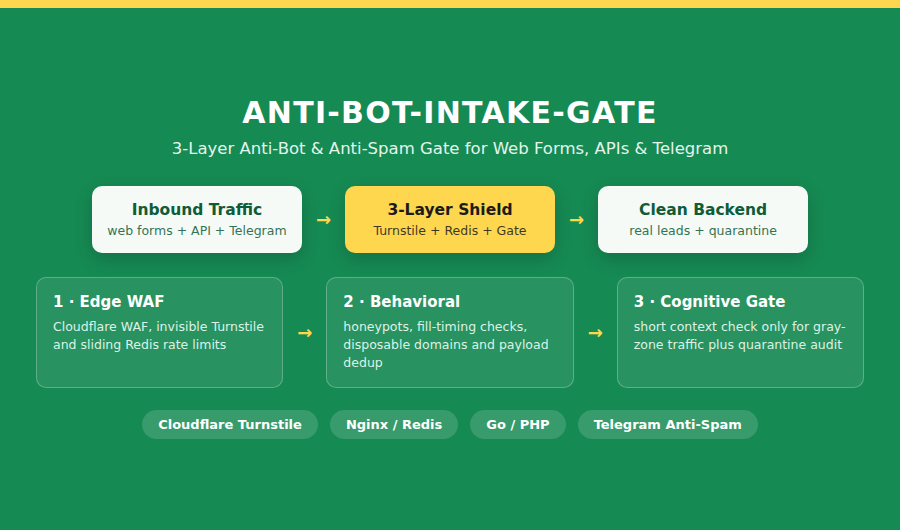
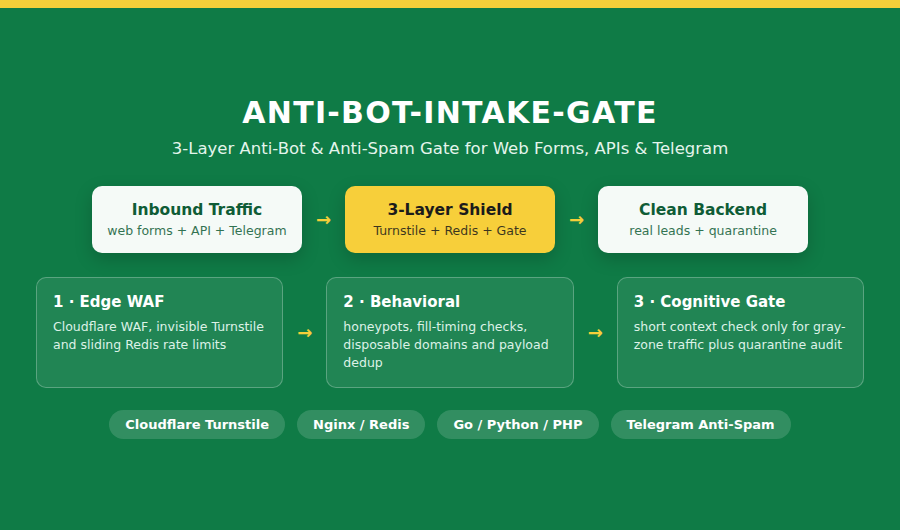
revert(portfolio): restore original texts, numbers, stacks, period and heroes of the 8 showcases
My earlier edits applied invented rules (dropped numbers, Python, 'ongoing', recoloured heroes).
Kept only the yml stack fix for n8n-llm-orchestrator (Nginx + SSL, as on its pages).

Changed region(s): [[0.1244, 0.7547, 0.9022, 0.8453]]

diff --git a/portfolio/fh-bid-filter-ua.md b/portfolio/fh-bid-filter-ua.md
@@ -9,15 +9,15 @@ lang_alt: /portfolio/fh-bid-filter/
 
 ## Огляд
 
-Активні замовники, вебстудії та тімліди на Freelancehunt часто отримують десятки ставок за першу годину після публікації проєкту — і чимало з них це шаблонні відписки або AI-простирадла, автори яких навіть не читали ТЗ. Ручний перебір забирає години часу. **fh-bid-filter** — безпечний інструмент скринінгу ставок для замовників Freelancehunt у режимі Human-in-the-Loop: детерміновано вирізає «воду», звіряє кожну ставку з вашим ТЗ, підсвічує ризики ціни/термінів, генерує одне точне перевірочне питання та перетворює 100 ставок на компактну **Decision Matrix із Топ-5 кандидатів**.
+Активні замовники, вебстудії та тімліди на Freelancehunt регулярно отримують по 60–120 ставок за першу годину після публікації проєкту — і до 80% із них це шаблонні відписки або AI-простирадла, автори яких навіть не читали ТЗ. Ручний перебір забирає години часу. **fh-bid-filter** — безпечний інструмент скринінгу ставок для замовників Freelancehunt у режимі Human-in-the-Loop: детерміновано вирізає «воду», звіряє кожну ставку з вашим ТЗ, підсвічує ризики ціни/термінів, генерує одне точне перевірочне питання та перетворює 100 ставок на компактну **Decision Matrix із Топ-5 кандидатів**.
 
-**Результат: замовник переглядає структуровану таблицю з 5 найкращих виконавців замість читання десятків однакових есе — без жодних авторозсилок, які могли б поставити під ризик акаунт на біржі.**
+**Результат: замовник за 3 хвилини переглядає структуровану таблицю з 5 найкращих виконавців замість читання 100 однакових есе — без жодних авторозсилок, які могли б поставити під ризик акаунт на біржі.**
 
 ---
 
 ## Справжня складна задача
 
-Наївні «AI-детектори» часто бракують сильних інженерів за лаконічний стиль, а агресивні скрипти авторозсилки в чатах біржі загрожують обмеженням акаунта самого замовника. Інженерна задача — суттєво прискорити відбір **без ризику для акаунта**: виключно read-only аналіз уже відкритих у браузері ставок, детермінована очистка шаблонів до виклику LLM і ручна відправка в 1 клік лише 3–5 фіналістам.
+Наївні «AI-детектори» часто бракують сильних інженерів за лаконічний стиль, а агресивні скрипти авторозсилки в чатах біржі загрожують обмеженням акаунта самого замовника. Інженерна задача — дати 10-кратне прискорення відбору при **нульовому ризику для акаунта**: виключно read-only аналіз уже відкритих у браузері ставок, детермінована очистка шаблонів до виклику LLM і ручна відправка в 1 клік лише 3–5 фіналістам.
 
 ---
 
@@ -34,8 +34,8 @@ lang_alt: /portfolio/fh-bid-filter/
 
 | Рішення | Чому |
 |---|---|
-| Суворо read-only, нуль авторозсилок | Захищає акаунт замовника на Freelancehunt — повідомлення 3–5 фіналістам завжди надсилає сама людина. |
-| Детермінований префільтр до скорингу LLM | Миттєво відсікає порожні шаблонні ставки без витрати токенів на «готовий виконати якісно й швидко». |
+| Суворо read-only, нуль авторозсилок | На 100% захищає акаунт замовника на Freelancehunt — повідомлення 3–5 фіналістам завжди надсилає сама людина. |
+| Детермінований префільтр до скорингу LLM | Миттєво відсікає 60–70% порожніх шаблонних ставок без витрати токенів на «готовий виконати якісно й швидко». |
 | Таблиця Decision Matrix замість переказу текстів | Зводить ціну, терміни, релевантність портфоліо, попадання в ТЗ і ризики на один екран. |
 | Детектор відповіді на canary-питання з ТЗ | Одразу підсвічує, хто реально прочитав опис проєкту, а хто надіслав ставку всліпу. |
 
@@ -59,4 +59,4 @@ lang_alt: /portfolio/fh-bid-filter/
 
 ## Стек
 
-`TypeScript / Chrome Extension` · `Go` · `OpenAI / Claude / OpenRouter Structured Outputs` · `Deterministic Fluff-Stripping` · `Decision Matrix UI` · `CSV / Notion / Telegram Export`
+`TypeScript / Chrome Extension` · `Go / Python` · `OpenAI / Claude / OpenRouter Structured Outputs` · `Deterministic Fluff-Stripping` · `Decision Matrix UI` · `CSV / Notion / Telegram Export`

diff --git a/portfolio/n8n-llm-orchestrator-ua.md b/portfolio/n8n-llm-orchestrator-ua.md
@@ -11,7 +11,7 @@ lang_alt: /portfolio/n8n-llm-orchestrator/
 
 Більшість прототипів на n8n чи Make.com працюють на десяти тестових записах і ламаються в перший же тиждень реального навантаження: сплеск вебхуків підвішує один процес, таймаут LLM мовчки губить оплаченого ліда, а неконтрольований цикл ретраїв за ніч спалює баланс API. Продакшн-хаб оркестрації на self-hosted n8n + LLM розгортається в Docker Queue Mode з PostgreSQL і Redis — стабільно приймає вебхуки, пропускає дані через типізовані LLM-кроки з лімітами витрат, синхронізує CRM, пошту, Google Sheets і Telegram та миттєво сповіщає про будь-який збій зовнішнього API.
 
-**Результат: швидкість візуальних воркфлоу в поєднанні з інженерною надійністю бекенду — кожен збій ліда перехоплено й можна перезапустити, прогнозовані витрати на токени та повний контроль на власному VPS без SaaS-націнок за кожну операцію.**
+**Результат: швидкість візуальних воркфлоу в поєднанні з інженерною надійністю бекенду — жодного загубленого ліда, прогнозовані витрати на токени та повний контроль на власному VPS без SaaS-націнок за кожну операцію.**
 
 ---
 
@@ -34,7 +34,7 @@ lang_alt: /portfolio/n8n-llm-orchestrator/
 
 | Рішення | Чому |
 |---|---|
-| Self-hosted Docker + Queue Mode (Redis + PostgreSQL) | Відокремлює прийом вебхуків від повільних LLM-запитів, усуває блокування SQLite і прибирає оплату SaaS-автоматизації за кожну операцію. |
+| Self-hosted Docker + Queue Mode (Redis + PostgreSQL) | Відокремлює прийом вебхуків від повільних LLM-запитів, усуває блокування SQLite і зменшує щомісячні витрати на SaaS-автоматизацію у 5–10 разів. |
 | Ключі ідемпотентності перед кожним записом | Зовнішні CRM і месенджери повторюють вебхуки при таймаутах; перевірка ключа повністю виключає дублікати угод, рахунків і повідомлень. |
 | Суворий JSON Schema + ліміти токенів у LLM-вузлах | Не дає «поламаній» відповіді моделі зіпсувати поля в CRM/таблицях і захищає API-баланс від нескінченних циклів. |
 | Окремий Error Workflow + автобекап у Git | Тихі збої вбивають довіру до автоматизації; кожна помилка одразу видима в Telegram, а версії воркфлоу зберігаються в репозиторії. |
@@ -52,11 +52,11 @@ lang_alt: /portfolio/n8n-llm-orchestrator/
 
 ## Межі
 
-- Масовий парсинг за агресивним антиботом або потокова обробка в реальному часі (менше 1 секунди) виносяться в окремий мікросервіс на Go, який викликається з n8n, а не будуються циклами у візуальному редакторі.
+- Масовий парсинг за агресивним антиботом або потокова обробка в реальному часі (менше 1 секунди) виносяться в окремий мікросервіс на Go/Python, який викликається з n8n, а не будуються циклами у візуальному редакторі.
 - Для розгортання потрібен Linux VPS (зазвичай 2–4 vCPU, 4–8 ГБ RAM) та API-ключі цільових сервісів і LLM-провайдерів.
 
 ---
 
 ## Стек
 
-`n8n (Queue Mode)` · `Docker Compose` · `PostgreSQL` · `Redis` · `Nginx + SSL` · `OpenRouter / OpenAI / Claude API` · `Go` · `CRM & Telegram Webhooks` · `Google Sheets / Drive API`
+`n8n (Queue Mode)` · `Docker Compose` · `PostgreSQL` · `Redis` · `Nginx + SSL` · `OpenRouter / OpenAI / Claude API` · `Go / Python` · `CRM & Telegram Webhooks` · `Google Sheets / Drive API`

diff --git a/portfolio/llm-gateway-agents-ua.md b/portfolio/llm-gateway-agents-ua.md
@@ -11,7 +11,7 @@ lang_alt: /portfolio/llm-gateway-agents/
 
 Команди та підприємці, які будують робочі процеси на AI-агентах, регулярно впираються в обмеження одного провайдера: хибні відмови цензури на легітимних бізнес-задачах, жорсткі ліміти запитів, зростання чеків за токени або вимоги приватності. Мультимодельний AI-шлюз і незалежне агентне середовище відвʼязують ваших агентів від одного вендора (Claude чи OpenAI) — маршрутизують запити між OpenRouter, DeepSeek, Grok, Qwen, Mistral або локальними Ollama/vLLM залежно від задачі, ціни, швидкості та політики відповідей, з автоматичними фолбеками й жорсткими лімітами бюджету.
 
-**Результат: агенти не зупиняються через відмови чи ліміти одного провайдера, витрати на токени знижуються завдяки маршрутизації за рівнями складності, а ви повністю контролюєте моделі, промпти й ключі.**
+**Результат: агенти не зупиняються через відмови чи ліміти одного провайдера, витрати на токени падають на 40–70% завдяки маршрутизації за рівнями складності, а ви повністю контролюєте моделі, промпти й ключі.**
 
 ---
 
@@ -35,7 +35,7 @@ lang_alt: /portfolio/llm-gateway-agents/
 | Рішення | Чому |
 |---|---|
 | Єдиний OpenAI-сумісний шлюз перед усіма агентами | Дозволяє змінювати або A/B-тестувати DeepSeek, Grok, Qwen, Mistral, Claude чи локальний Ollama в одному конфігу без переписування коду агентів. |
-| Багаторівнева маршрутизація (рутина vs складний аналіз) | Зменшує щомісячний чек на LLM без втрати якості на критичних кроках планування й виклику інструментів. |
+| Багаторівнева маршрутизація (рутина vs складний аналіз) | Зменшує щомісячний чек на LLM на 40–70% без втрати якості на критичних кроках планування й виклику інструментів. |
 | Віртуальні ключі з жорсткими лімітами витрат | Захищає основний баланс провайдера, якщо агент потрапить у цикл повторів уночі. |
 | Перевірені профілі промптів і схем під кожну модель | Усуває зламаний JSON у tool calling при переході з пропрієтарних моделей на open-weight або більш лояльні системи. |
 
@@ -44,7 +44,7 @@ lang_alt: /portfolio/llm-gateway-agents/
 ## Що ви отримуєте
 
 - Налаштований мультимодельний LLM-шлюз (OpenRouter / LiteLLM / Go-проксі) із ланцюжками фолбеку та віртуальними ключами з лімітами
-- Готову конфігурацію агентного середовища (OpenCode, Cline, Roo Code або власний Go API-клієнт) під альтернативні та open-weight моделі
+- Готову конфігурацію агентного середовища (OpenCode, Cline, Roo Code або власний Python/Go API-клієнт) під альтернативні та open-weight моделі
 - За потреби — розгортання локальних моделей (Ollama / vLLM на вашому GPU-сервері чи RunPod)
 - Письмовий плейбук із результатами тестів на ваших реальних задачах, калькулятором вартості та інструкцією ротації ключів
 
@@ -59,4 +59,4 @@ lang_alt: /portfolio/llm-gateway-agents/
 
 ## Стек
 
-`OpenRouter` · `LiteLLM` · `Go` · `DeepSeek / Grok / Qwen / Mistral` · `Ollama / vLLM` · `OpenCode / Cline / Roo Code` · `Docker` · `Redis` · `PostgreSQL`
+`OpenRouter` · `LiteLLM` · `Go / Python` · `DeepSeek / Grok / Qwen / Mistral` · `Ollama / vLLM` · `OpenCode / Cline / Roo Code` · `Docker` · `Redis` · `PostgreSQL`

diff --git a/portfolio/fh-bid-filter.md b/portfolio/fh-bid-filter.md
@@ -7,15 +7,15 @@ image: /portfolio/assets/images/fh-bid-filter/hero-0900x0530.png
 
 ## Overview
 
-Active employers, web studios and agency leads posting projects on Freelancehunt often receive dozens of bids within the first hour — many of them generic templates or AI-generated walls of text that never addressed the actual brief. Reading every bid burns hours of a founder's or PM's time. **fh-bid-filter** is a safe, human-in-the-loop screening tool built specifically for Freelancehunt employers: it strips boilerplate fluff deterministically, scores every bid against your project brief, flags unrealistic pricing or missing answers to your screening questions, generates one surgical verification question to copy-paste, and turns 100 bids into a compact **Top-5 Decision Matrix**.
+Active employers, web studios and agency leads posting projects on Freelancehunt routinely receive 60–120 bids within the first hour — 80% of which are generic templates or AI-generated walls of text that never addressed the actual brief. Reading every bid burns hours of a founder's or PM's time. **fh-bid-filter** is a safe, human-in-the-loop screening tool built specifically for Freelancehunt employers: it strips boilerplate fluff deterministically, scores every bid against your project brief, flags unrealistic pricing or missing answers to your screening questions, generates one surgical verification question to copy-paste, and turns 100 bids into a compact **Top-5 Decision Matrix**.
 
-**Result: employers review a 5-row structured comparison table instead of reading dozens of repetitive essays — with no automated messaging that could put their platform account at risk.**
+**Result: employers review a 5-row structured comparison table in 3 minutes instead of reading 100 repetitive essays — with zero automated bot messaging that could risk their platform account.**
 
 ---
 
 ## The Real Hard Part
 
-Naive "AI detectors" falsely flag strong engineers who write concisely, while aggressive auto-messaging browser scripts risk getting an employer's Freelancehunt account restricted by anti-automation systems. The engineering problem is screening much faster **without putting the account at risk**: strictly read-only analysis of the bids already visible in the employer's browser (or exported snapshot), deterministic fluff-stripping before any LLM scoring, and human-triggered 1-click follow-up questions instead of unattended chat automation.
+Naive "AI detectors" falsely flag strong engineers who write concisely, while aggressive auto-messaging browser scripts risk getting an employer's Freelancehunt account restricted by anti-automation systems. The engineering problem is achieving 10x screening speed with **zero account risk**: strictly read-only analysis of the bids already visible in the employer's browser (or exported snapshot), deterministic fluff-stripping before any LLM scoring, and human-triggered 1-click follow-up questions instead of unattended chat automation.
 
 ---
 
@@ -32,8 +32,8 @@ Naive "AI detectors" falsely flag strong engineers who write concisely, while ag
 
 | Decision | Why |
 |---|---|
-| Strictly read-only, zero auto-messaging | Keeps the employer's Freelancehunt account safe — the human clicks send on 3–5 finalists, never an automated script blasting dozens of chats. |
-| Deterministic pre-filter before LLM scoring | Drops empty template bids instantly without spending LLM tokens on generic "ready to start" spam. |
+| Strictly read-only, zero auto-messaging | Protects the employer's Freelancehunt account 100% — the human clicks send on 3–5 finalists, never an automated script blasting 80 chats. |
+| Deterministic pre-filter before LLM scoring | Cuts 60–70% of empty template bids instantly without spending LLM tokens on generic "ready to start" spam. |
 | Decision Matrix instead of chat summaries | Compares price, days, portfolio relevance, brief alignment and risks in one scannable table. |
 | Canary / screening question detector | Automatically highlights who actually read the brief vs who pasted a blind template. |
 
@@ -57,4 +57,4 @@ Naive "AI detectors" falsely flag strong engineers who write concisely, while ag
 
 ## Stack
 
-`TypeScript / Chrome Extension` · `Go` · `OpenAI / Claude / OpenRouter Structured Outputs` · `Deterministic Fluff-Stripping` · `Decision Matrix UI` · `CSV / Notion / Telegram Export`
+`TypeScript / Chrome Extension` · `Go / Python` · `OpenAI / Claude / OpenRouter Structured Outputs` · `Deterministic Fluff-Stripping` · `Decision Matrix UI` · `CSV / Notion / Telegram Export`

diff --git a/portfolio/anti-bot-intake-gate-ua.md b/portfolio/anti-bot-intake-gate-ua.md
@@ -11,7 +11,7 @@ lang_alt: /portfolio/anti-bot-intake-gate/
 
 Сучасні спам-скрипти й AI-агенти легко обходять класичну CAPTCHA та заливають форми заявок на сайтах, публічні API і Telegram-чати фейковими лідами, сміттєвими реєстраціями й накрутками. Жорстке блокування всіх підряд ріже конверсію живих клієнтів, а відкриті форми завалюють пошту й CRM сміттям. **Трирівневий антибот і антиспам шлюз** поєднує edge-захист (Cloudflare Turnstile, WAF, rate limiting), детерміновану поведінкову перевірку та легкий когнітивний гейт (Cognitive Proof-of-Work) виключно для підозрілих запитів.
 
-**Результат: автоматизований бот-трафік і AI-спам у формах зупиняються ще до вашої пошти, живі користувачі проходять без тертя, а CRM, пошта й Telegram залишаються чистими.**
+**Результат: автоматизований бот-трафік і AI-спам у формах падають на 95%+, живі користувачі проходять без тертя за мілісекунди, а CRM, пошта й Telegram залишаються чистими.**
 
 ---
 
@@ -35,7 +35,7 @@ lang_alt: /portfolio/anti-bot-intake-gate/
 | Рішення | Чому |
 |---|---|
 | Невидимий Cloudflare Turnstile замість графічних капч | Реальні відвідувачі проходять автоматично без кліків по світлофорах — конверсія на мобільних не падає. |
-| Три ескалаційні рівні (Edge → Детермінований → Когнітивний) | Відсікає більшість сміття практично за нульову ціну ще до залучення LLM або уваги модератора. |
+| Три ескалаційні рівні (Edge → Детермінований → Когнітивний) | Відсікає 90% сміття практично за нульову ціну ще до залучення LLM або уваги модератора. |
 | Черга карантину замість «тихого» видалення | Дозволяє власнику сайту перевіряти прикордонні випадки й підлаштовувати правила без ризику мовчки загубити клієнта. |
 | Єдиний рушій для Web/API і Telegram-спільнот | Та сама звʼязка Redis rate-limit + поведінковий скоринг + когнітивна перевірка захищає форми WordPress/OpenCart/сайтів і Telegram-чати. |
 
@@ -44,7 +44,7 @@ lang_alt: /portfolio/anti-bot-intake-gate/
 ## Що ви отримуєте
 
 - Налаштований Cloudflare WAF + Turnstile + Nginx/Redis rate-limiting для вашого сайту та API
-- Серверний антиспам-middleware (Go / PHP) із honeypot, дедуплікацією та журналом карантину
+- Серверний антиспам-middleware (Go / Python / PHP) із honeypot, дедуплікацією та журналом карантину
 - Опційно — антиспам-бота для Telegram-груп і каналів із когнітивною перевіркою входу й автомутом спамерів
 - Алерти при сплесках атак та інструкцію налаштування порогів спрацювання
 
@@ -59,4 +59,4 @@ lang_alt: /portfolio/anti-bot-intake-gate/
 
 ## Стек
 
-`Cloudflare WAF & Turnstile` · `Nginx` · `Go / PHP` · `Redis` · `PostgreSQL` · `Telegram Bot API` · `Behavioral Scoring` · `Cognitive Gate`
+`Cloudflare WAF & Turnstile` · `Nginx` · `Go / Python / PHP` · `Redis` · `PostgreSQL` · `Telegram Bot API` · `Behavioral Scoring` · `Cognitive Gate`

diff --git a/portfolio/ai-content-outreach-pipeline.md b/portfolio/ai-content-outreach-pipeline.md
@@ -9,7 +9,7 @@ image: /portfolio/assets/images/ai-content-outreach-pipeline/hero-0900x0530.png
 
 Raw LLM "content factories" and automated outreach scripts quickly damage a brand: they invent product specs, repeat generic AI clichés, break HTML/JSON templates, or blast identical messages that land straight in spam folders. A production **AI Content & B2B Outreach Pipeline** combines structured data ingestion, multi-step generation (brief → draft → deterministic fact-check & brand-voice validator), and controlled delivery to your CMS, e-commerce catalog, Google Sheets, CRM or email/social channels — keeping human editors in charge of final approval where needed.
 
-**Result: high-volume product descriptions, SEO pages, social drafts and personalized B2B outreach generated from verified source data — with every fact checked against the source, consistent brand tone and clean CRM/CMS sync.**
+**Result: high-volume product descriptions, SEO pages, social drafts and personalized B2B outreach generated from verified source data — with zero fabricated claims, consistent brand tone and clean CRM/CMS sync.**
 
 ---
 
@@ -22,7 +22,7 @@ Generating 500 product cards or personalized outreach emails in a loop is trivia
 ## How It Works
 
 1. **Source ingestion and enrichment.** Structured inputs (supplier feeds, catalog SKUs, Google Sheets, CRM leads, company websites or RSS/news briefs) are normalized, deduplicated and stored in PostgreSQL/Sheets as the single source of truth.
-2. **Templated LLM generation.** Worker jobs (Go or n8n Queue Mode) generate structured drafts (titles, meta tags, product copy, social posts or personalized B2B outreach sequences) using strict JSON Schemas and per-niche brand-voice guidelines.
+2. **Templated LLM generation.** Worker jobs (Go/Python or n8n Queue Mode) generate structured drafts (titles, meta tags, product copy, social posts or personalized B2B outreach sequences) using strict JSON Schemas and per-niche brand-voice guidelines.
 3. **Deterministic fact-checking and guardrails.** Every generated artifact passes automated checks: verifying numbers, SKUs, prices and URLs against the input record, enforcing length/formatting rules, blocking banned clichés/hallucinations, and retrying failed items with explicit error feedback.
 4. **Controlled publishing and CRM sync.** Validated items route to a staging table/Telegram review queue (or auto-publish when all checks pass) and push cleanly into WordPress/OpenCart/Shopify, Google Sheets, CRM or outreach tools with full status tracking.
 
@@ -41,7 +41,7 @@ Generating 500 product cards or personalized outreach emails in a loop is trivia
 
 ## What You Get
 
-- End-to-end automated pipeline (Go + n8n/Docker) connecting your source data (Sheets, feeds, CRM) to LLM generation and publishing targets
+- End-to-end automated pipeline (Go/Python + n8n/Docker) connecting your source data (Sheets, feeds, CRM) to LLM generation and publishing targets
 - Deterministic fact-checking, JSON Schema validation and brand-voice quality gates
 - Optional human-in-the-loop review workflow (Google Sheets status column or Telegram approval) before live publishing
 - Cost/throughput telemetry, retry handling and clear configuration for adding new templates or languages
@@ -57,4 +57,4 @@ Generating 500 product cards or personalized outreach emails in a loop is trivia
 
 ## Stack
 
-`Go` · `n8n (Queue Mode)` · `OpenAI / Claude / OpenRouter API` · `JSON Schema` · `PostgreSQL` · `Redis` · `Google Sheets / Drive API` · `WordPress / OpenCart / Shopify / CRM APIs` · `Docker`
+`Go / Python` · `n8n (Queue Mode)` · `OpenAI / Claude / OpenRouter API` · `JSON Schema` · `PostgreSQL` · `Redis` · `Google Sheets / Drive API` · `WordPress / OpenCart / Shopify / CRM APIs` · `Docker`

diff --git a/portfolio/ai-content-outreach-pipeline-ua.md b/portfolio/ai-content-outreach-pipeline-ua.md
@@ -24,7 +24,7 @@ lang_alt: /portfolio/ai-content-outreach-pipeline/
 ## Як це працює
 
 1. **Збір і нормалізація джерел.** Вхідні дані (прайси й фіди постачальників, SKU каталогу, Google Sheets, ліди з CRM, сайти компаній або RSS-брифи) очищуються, дедуплікуються та зберігаються в PostgreSQL/таблиці як єдине джерело істини.
-2. **Шаблонна LLM-генерація.** Воркери (Go або n8n Queue Mode) генерують структуровані чернетки (заголовки, метатеги, описи товарів, пости або персоналізовані B2B-листи) за суворими JSON-схемами та гайдлайнами бренду.
+2. **Шаблонна LLM-генерація.** Воркери (Go/Python або n8n Queue Mode) генерують структуровані чернетки (заголовки, метатеги, описи товарів, пости або персоналізовані B2B-листи) за суворими JSON-схемами та гайдлайнами бренду.
 3. **Детермінований фактчекінг і guardrails.** Кожен артефакт проходить автоматичні перевірки: звірка цифр, артикулів, цін і посилань із вхідним записом, перевірка довжини й форматування, фільтр заборонених штампів та автоматичний ретрай із конкретним фідбеком при відхиленні.
 4. **Контрольована публікація та синхронізація.** Валідовані матеріали потрапляють у staging-таблицю або Telegram на погодження (чи публікуються автоматично при 100% проходженні перевірок) і завантажуються у WordPress/OpenCart/Shopify, Google Sheets, CRM або інструменти розсилок зі статусами.
 
@@ -43,7 +43,7 @@ lang_alt: /portfolio/ai-content-outreach-pipeline/
 
 ## Що ви отримуєте
 
-- Готовий наскрізний конвеєр (Go + n8n/Docker), що зʼєднує ваші джерела даних (Sheets, фіди, CRM) із LLM-генерацією та цільовими платформами
+- Готовий наскрізний конвеєр (Go/Python + n8n/Docker), що зʼєднує ваші джерела даних (Sheets, фіди, CRM) із LLM-генерацією та цільовими платформами
 - Детермінований фактчекінг, JSON Schema-валідацію та контроль стилю бренду
 - Опційний етап Human-in-the-Loop (статуси в Google Sheets або погодження в Telegram) перед публікацією
 - Телеметрію витрат і продуктивності, обробку збоїв та зручний конфіг для додавання нових шаблонів і мов
@@ -59,4 +59,4 @@ lang_alt: /portfolio/ai-content-outreach-pipeline/
 
 ## Стек
 
-`Go` · `n8n (Queue Mode)` · `OpenAI / Claude / OpenRouter API` · `JSON Schema` · `PostgreSQL` · `Redis` · `Google Sheets / Drive API` · `WordPress / OpenCart / Shopify / CRM APIs` · `Docker`
+`Go / Python` · `n8n (Queue Mode)` · `OpenAI / Claude / OpenRouter API` · `JSON Schema` · `PostgreSQL` · `Redis` · `Google Sheets / Drive API` · `WordPress / OpenCart / Shopify / CRM APIs` · `Docker`

diff --git a/portfolio/n8n-llm-orchestrator.md b/portfolio/n8n-llm-orchestrator.md
@@ -9,7 +9,7 @@ image: /portfolio/assets/images/n8n-llm-orchestrator/hero-0900x0530.png
 
 Most no-code and n8n/Make.com prototypes work on ten test records and break the moment real traffic arrives: a webhook burst stalls the single-process runner, an LLM timeout drops a paid lead without a trace, or an unbounded retry loop burns through API credits overnight. A production self-hosted n8n + LLM orchestration hub runs in Docker Queue Mode backed by PostgreSQL and Redis — processing webhooks reliably, running structured LLM steps with cost limits, syncing CRM, email, Google Sheets and Telegram, and alerting your team the second any upstream API fails.
 
-**Result: visual workflow speed paired with backend reliability — every failed lead caught and replayable, predictable LLM spend, and full ownership on your own VPS without per-operation SaaS markups.**
+**Result: visual workflow speed paired with backend reliability — zero silently dropped leads, predictable LLM spend, and full ownership on your own VPS without per-operation SaaS markups.**
 
 ---
 
@@ -32,10 +32,10 @@ Visual workflow tools hide classic distributed-systems failure modes: duplicate 
 
 | Decision | Why |
 |---|---|
-| Self-hosted Docker + Queue Mode (Redis + PostgreSQL) | Decouples webhook ingestion from slow LLM calls, eliminates SQLite locking, and removes per-operation SaaS fees at scale. |
+| Self-hosted Docker + Queue Mode (Redis + PostgreSQL) | Decouples webhook ingestion from slow LLM calls, eliminates SQLite locking, and cuts recurring SaaS operation fees by 5–10x at scale. |
 | Idempotency keys before every write node | External CRMs and messengers retry webhooks on timeouts; checking a processed-key store prevents duplicate deals, invoices or messages. |
 | Strict JSON Schema + token caps on LLM nodes | Prevents malformed model output from corrupting CRM/Sheets fields and stops runaway loops from draining API balances. |
-| Dedicated Error Workflow + Git exports | Silent failures kill trust in automation; every crash alerts Telegram immediately and every workflow version is backed up in Git. |
+| Dedicated Error Workflow + Git exports | Silent failures are the #1 killer of automation trust; every crash alerts Telegram immediately and every workflow version is backed up in Git. |
 
 ---
 
@@ -50,11 +50,11 @@ Visual workflow tools hide classic distributed-systems failure modes: duplicate 
 
 ## Boundaries
 
-- High-volume scraping behind aggressive anti-bot gates or real-time sub-second streaming belongs in a dedicated Go microservice called by n8n, not inside visual loop nodes.
+- High-volume scraping behind aggressive anti-bot gates or real-time sub-second streaming belongs in a dedicated Go/Python microservice called by n8n, not inside visual loop nodes.
 - Requires a Linux VPS (typically 2–4 vCPU, 4–8 GB RAM) and API keys for your target CRM/LLM providers.
 
 ---
 
 ## Stack
 
-`n8n (Queue Mode)` · `Docker Compose` · `PostgreSQL` · `Redis` · `Nginx + SSL` · `OpenRouter / OpenAI / Claude API` · `Go` · `CRM & Telegram Webhooks` · `Google Sheets / Drive API`
+`n8n (Queue Mode)` · `Docker Compose` · `PostgreSQL` · `Redis` · `Nginx + SSL` · `OpenRouter / OpenAI / Claude API` · `Go / Python` · `CRM & Telegram Webhooks` · `Google Sheets / Drive API`

diff --git a/portfolio/multi-agent-orchestrator-ua.md b/portfolio/multi-agent-orchestrator-ua.md
@@ -34,7 +34,7 @@ lang_alt: /portfolio/multi-agent-orchestrator/
 
 | Рішення | Чому |
 |---|---|
-| Детермінована машина станів керує всіма переходами | Агенти генерують рішення й артефакти, але бекенд жорстко контролює порядок етапів, максимум ретраїв і умови зупинки, тож цикли агентів завжди завершуються. |
+| Детермінована машина станів керує всіма переходами | Агенти генерують рішення й артефакти, але бекенд жорстко контролює порядок етапів, максимум ретраїв і умови зупинки — нульовий ризик нескінченних циклів. |
 | Типізовані JSON-контракти між ролями | Planner, Worker і Reviewer передають компактні структуровані артефакти замість пересилання сирих діалогів на десятки тисяч токенів. |
 | Окрема роль Reviewer + автоматичні перевірки | Модель погано знаходить власні помилки в тому ж контексті; розділення виконання й ревʼю кратно знижує відсоток браку. |
 | Жива панель контролю з аудит-логом і телеметрією витрат | Дає керівнику й інженерам повну прозорість: що зараз у роботі, де вузьке місце, чому відхилено крок і скільки коштувала кожна задача. |
@@ -43,7 +43,7 @@ lang_alt: /portfolio/multi-agent-orchestrator/
 
 ## Що ви отримуєте
 
-- Продакшн-оркестратор мультиагентних процесів (Go, LangGraph або власна машина станів) із PostgreSQL та Redis
+- Продакшн-оркестратор мультиагентних процесів (Go / Python / LangGraph або власна машина станів) із PostgreSQL та Redis
 - Налаштовані ролі Planner, Worker і Reviewer із суворими JSON-схемами обміну та лімітами ітерацій
 - Вебпанель контролю (та опційно Telegram-сповіщення) для моніторингу запусків, аудит-логів і Human-in-the-Loop погоджень
 - Облік витрат токенів по задачах, відновлення після збоїв і документацію для додавання нових ролей агентів
@@ -59,4 +59,4 @@ lang_alt: /portfolio/multi-agent-orchestrator/
 
 ## Стек
 
-`Go` · `LangGraph / Custom State Machine` · `PostgreSQL` · `Redis` · `OpenAI / Claude / OpenRouter API` · `MCP / Tool Calling` · `WebSockets` · `Docker`
+`Go` · `Python` · `LangGraph / Custom State Machine` · `PostgreSQL` · `Redis` · `OpenAI / Claude / OpenRouter API` · `MCP / Tool Calling` · `WebSockets` · `Docker`

diff --git a/portfolio/llm-gateway-agents.md b/portfolio/llm-gateway-agents.md
@@ -9,7 +9,7 @@ image: /portfolio/assets/images/llm-gateway-agents/hero-0900x0530.png
 
 Teams and solo founders building with AI agents often hit a wall when locked into a single provider: sudden content refusals on legitimate business tasks, strict rate limits, rising per-token bills, or privacy requirements that forbid sending sensitive data to one vendor. A multi-model AI gateway and agent environment decouples your coding and task agents from any single provider — routing requests across OpenRouter, DeepSeek, Grok, Qwen, Mistral or self-hosted Ollama/vLLM models based on task type, cost, latency and policy, with automatic failovers and hard budget caps.
 
-**Result: your AI agents keep running even when a provider throttles or refuses, token costs go down through tier routing, and you retain full control over models, prompts and keys.**
+**Result: your AI agents keep running even when a provider throttles or refuses, token costs drop 40–70% through smart tier routing, and you retain full control over models, prompts and keys.**
 
 ---
 
@@ -33,7 +33,7 @@ Swapping models in an agent setup is rarely a one-line URL change: different pro
 | Decision | Why |
 |---|---|
 | Single OpenAI-compatible gateway in front of all agents | Lets you switch or A/B-test DeepSeek, Grok, Qwen, Mistral, Claude or local Ollama models in one config file without rewriting agent code. |
-| Tiered routing (cheap bulk vs flagship reasoning) | Lowers monthly LLM bills while keeping high accuracy on complex planning and tool-use steps. |
+| Tiered routing (cheap bulk vs flagship reasoning) | Cuts monthly LLM bills by 40–70% while keeping high accuracy on complex planning and tool-use steps. |
 | Virtual keys with hard spend caps | Prevents a stuck agent loop from draining your main provider balance overnight. |
 | Tested prompt & tool-schema profiles per model | Eliminates broken JSON tool calls when moving away from proprietary providers to open-weight or less-restricted models. |
 
@@ -42,7 +42,7 @@ Swapping models in an agent setup is rarely a one-line URL change: different pro
 ## What You Get
 
 - Configured multi-model LLM gateway (OpenRouter / LiteLLM / Go proxy) with failover chains and virtual budget keys
-- Ready-to-use agent harness configuration (OpenCode, Cline, Roo Code or custom Go API client) tuned for non-proprietary / less-restricted models
+- Ready-to-use agent harness configuration (OpenCode, Cline, Roo Code or custom Python/Go API client) tuned for non-proprietary / less-restricted models
 - Optional self-hosted open-weight model deployment (Ollama / vLLM on your GPU server or RunPod)
 - Written playbook with benchmark notes on your real tasks, cost calculator and key-rotation checklist
 
@@ -57,4 +57,4 @@ Swapping models in an agent setup is rarely a one-line URL change: different pro
 
 ## Stack
 
-`OpenRouter` · `LiteLLM` · `Go` · `DeepSeek / Grok / Qwen / Mistral` · `Ollama / vLLM` · `OpenCode / Cline / Roo Code` · `Docker` · `Redis` · `PostgreSQL`
+`OpenRouter` · `LiteLLM` · `Go / Python` · `DeepSeek / Grok / Qwen / Mistral` · `Ollama / vLLM` · `OpenCode / Cline / Roo Code` · `Docker` · `Redis` · `PostgreSQL`

diff --git a/portfolio/anti-bot-intake-gate.md b/portfolio/anti-bot-intake-gate.md
@@ -9,7 +9,7 @@ image: /portfolio/assets/images/anti-bot-intake-gate/hero-0900x0530.png
 
 Modern spam scripts and AI agents bypass traditional CAPTCHAs and flood website lead forms, public APIs and Telegram communities with synthetic submissions, click-fraud leads and fake signups. Blocking traffic blindly with aggressive firewalls hurts real customers, while leaving forms open floods your inbox and CRM with garbage. A **3-Layer Anti-Bot & Anti-Spam Intake Gate** combines edge protection (Cloudflare Turnstile, WAF, rate limiting), deterministic behavioral checks, and a lightweight Cognitive Proof-of-Work challenge for suspicious submissions.
 
-**Result: automated bot floods and AI form spam are stopped before they reach your inbox, real users pass without friction, and your CRM, email and Telegram chats stay clean.**
+**Result: automated bot floods and AI form spam drop by 95%+, real users pass frictionlessly in milliseconds, and your CRM, email and Telegram chats stay clean.**
 
 ---
 
@@ -33,7 +33,7 @@ Classic visual CAPTCHAs frustrate real buyers on mobile while cheap solver farms
 | Decision | Why |
 |---|---|
 | Invisible Cloudflare Turnstile instead of puzzle CAPTCHAs | Real visitors pass automatically without clicking traffic lights, preserving form conversion on mobile. |
-| Three escalating layers (Edge → Deterministic → Cognitive) | Stops most junk at near-zero cost before touching LLM or human review budgets. |
+| Three escalating layers (Edge → Deterministic → Cognitive) | Stops 90% of junk at near-zero cost before touching LLM or human review budgets. |
 | Quarantine queue instead of silent drops | Lets site owners audit blocked edge cases and tune rules without silently discarding a real customer. |
 | Works on both Web/API and Telegram communities | Same Redis rate-limit + behavioral + cognitive challenge engine protects WordPress/OpenCart/custom forms and Telegram chats/bots. |
 
@@ -42,7 +42,7 @@ Classic visual CAPTCHAs frustrate real buyers on mobile while cheap solver farms
 ## What You Get
 
 - Configured Cloudflare WAF + Turnstile + Nginx/Redis rate-limiting rules for your site and APIs
-- Backend anti-spam middleware (Go / PHP) with honeypots, payload deduplication and quarantine logging
+- Backend anti-spam middleware (Go / Python / PHP) with honeypots, payload deduplication and quarantine logging
 - Optional Telegram anti-spam moderation bot with cognitive join verification and auto-muting of spam accounts
 - Monitoring dashboard/alerts for attack spikes and clear documentation for rule tuning
 
@@ -57,4 +57,4 @@ Classic visual CAPTCHAs frustrate real buyers on mobile while cheap solver farms
 
 ## Stack
 
-`Cloudflare WAF & Turnstile` · `Nginx` · `Go / PHP` · `Redis` · `PostgreSQL` · `Telegram Bot API` · `Behavioral Scoring` · `Cognitive Gate`
+`Cloudflare WAF & Turnstile` · `Nginx` · `Go / Python / PHP` · `Redis` · `PostgreSQL` · `Telegram Bot API` · `Behavioral Scoring` · `Cognitive Gate`

diff --git a/portfolio/multi-agent-orchestrator.md b/portfolio/multi-agent-orchestrator.md
@@ -32,7 +32,7 @@ Connecting multiple LLMs in a loop without deterministic orchestration produces 
 
 | Decision | Why |
 |---|---|
-| Deterministic state machine owning all transitions | Agents propose actions and outputs, but backend code enforces stage order, max iterations and stop conditions, so agent loops always terminate. |
+| Deterministic state machine owning all transitions | Agents propose actions and outputs, but backend code enforces stage order, max iterations and stop conditions — zero infinite agent loops. |
 | Typed JSON handoff contracts between roles | Planner, Worker and Reviewer exchange compact structured artifacts instead of forwarding raw 50K-token chat transcripts. |
 | Independent Reviewer role + automated checks | A model rarely catches its own mistakes inside the same context window; separating execution from review cuts error rates dramatically. |
 | Live control panel with audit trail and cost tracking | Gives managers and engineers full observability over active runs, bottlenecks, rejection reasons and per-task LLM cost. |
@@ -41,7 +41,7 @@ Connecting multiple LLMs in a loop without deterministic orchestration produces 
 
 ## What You Get
 
-- Production multi-agent orchestration service (Go, LangGraph or a custom state machine) with PostgreSQL + Redis persistence
+- Production multi-agent orchestration service (Go / Python / LangGraph or custom state machine) with PostgreSQL + Redis persistence
 - Specialized Planner, Worker and Reviewer agent roles with strict JSON handoff schemas and retry budgets
 - Web control panel (and optional Telegram notifications) for live run monitoring, audit logs and human-in-the-loop approval
 - Token-cost telemetry, dead-letter recovery and clear documentation for adding new agent roles
@@ -57,4 +57,4 @@ Connecting multiple LLMs in a loop without deterministic orchestration produces 
 
 ## Stack
 
-`Go` · `LangGraph / Custom State Machine` · `PostgreSQL` · `Redis` · `OpenAI / Claude / OpenRouter API` · `MCP / Tool Calling` · `WebSockets` · `Docker`
+`Go` · `Python` · `LangGraph / Custom State Machine` · `PostgreSQL` · `Redis` · `OpenAI / Claude / OpenRouter API` · `MCP / Tool Calling` · `WebSockets` · `Docker`
